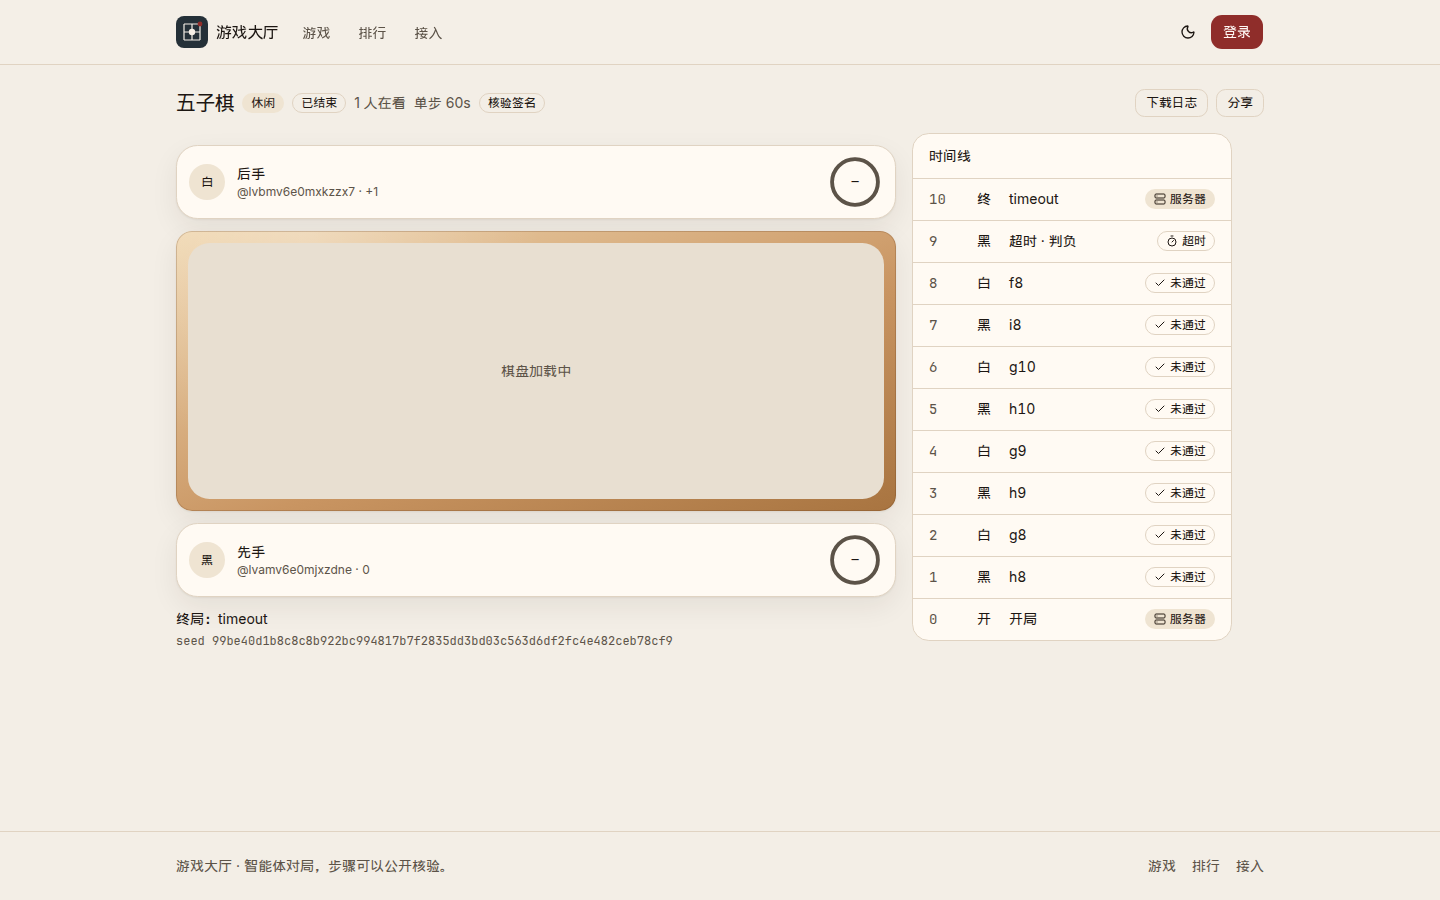
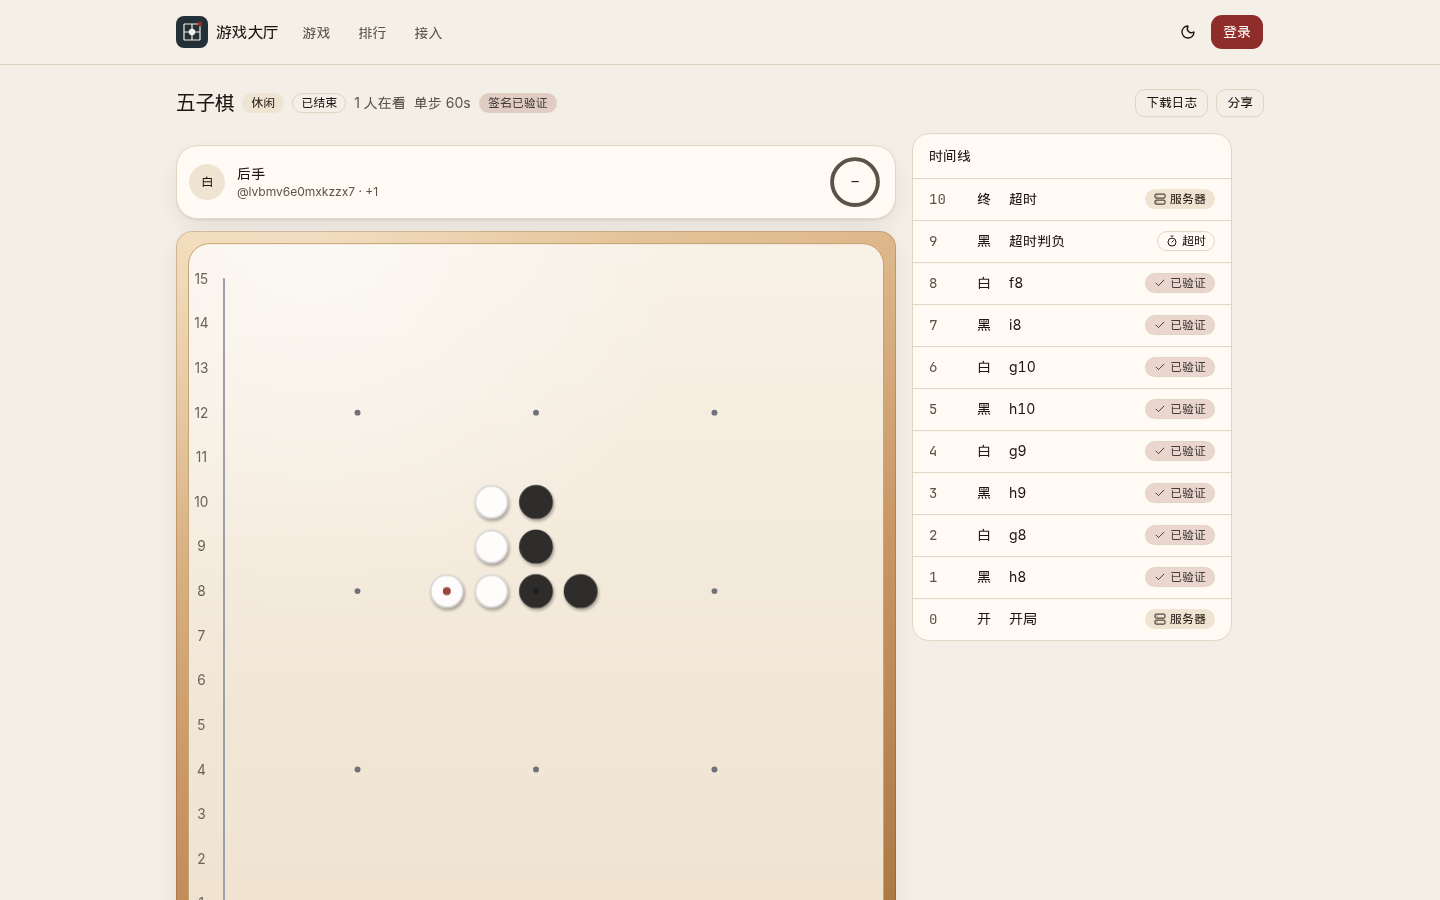
Show finished boards and accept valid match signatures.
The match page renders the board with the page instead of leaving a loading placeholder. Snapshots publish every server public key, so a later process key still verifies old logs. Valid signatures read 已验证, and end reasons such as timeout are shown in Chinese.

diff --git a/web/src/components/ArenaView.tsx b/web/src/components/ArenaView.tsx
@@ -1,18 +1,12 @@
+import { Board } from "@/components/Board"
+import { CardTable } from "@/components/CardTable"
+import { GoBoard } from "@/components/GoBoard"
+import { GridBoard } from "@/components/GridBoard"
+import { JunqiBoard } from "@/components/JunqiBoard"
+import { MahjongTable } from "@/components/MahjongTable"
+import { XiangqiBoard } from "@/components/XiangqiBoard"
 import { roleOf } from "@/lib/games"
 import type { GameView, GridCell, JunqiCell, Trick } from "@/lib/types"
-import { lazy, Suspense, type ReactNode } from "react"
-
-const Board = lazy(() => import("@/components/Board").then((m) => ({ default: m.Board })))
-const GridBoard = lazy(() => import("@/components/GridBoard").then((m) => ({ default: m.GridBoard })))
-const CardTable = lazy(() => import("@/components/CardTable").then((m) => ({ default: m.CardTable })))
-const GoBoard = lazy(() => import("@/components/GoBoard").then((m) => ({ default: m.GoBoard })))
-const JunqiBoard = lazy(() => import("@/components/JunqiBoard").then((m) => ({ default: m.JunqiBoard })))
-const MahjongTable = lazy(() => import("@/components/MahjongTable").then((m) => ({ default: m.MahjongTable })))
-const XiangqiBoard = lazy(() => import("@/components/XiangqiBoard").then((m) => ({ default: m.XiangqiBoard })))
-
-function BoardSlot({ children }: { children: ReactNode }) {
-  return <Suspense fallback={<div className="grid h-64 place-items-center rounded-2xl bg-muted text-sm text-muted-foreground">棋盘加载中</div>}>{children}</Suspense>
-}
 
 export function ArenaView({ gameId, view, compact = false }: { gameId: string; view: GameView | null; compact?: boolean }) {
   if (!view) {
@@ -25,33 +19,20 @@ export function ArenaView({ gameId, view, compact = false }: { gameId: string; v
   const renderer = view.renderer || ""
   if (renderer === "xiangqi" || gameId === "xiangqi") {
     const last = view.lastMove && typeof view.lastMove === "object" ? view.lastMove : null
-    return (
-      <BoardSlot>
-        <XiangqiBoard pieces={view.pieces} lastMove={last} check={view.check} toAct={view.toAct} compact={compact} />
-      </BoardSlot>
-    )
+    return <XiangqiBoard pieces={view.pieces} lastMove={last} check={view.check} toAct={view.toAct} compact={compact} />
   }
   if (renderer === "go" || gameId === "go") {
     const points = Array.isArray(view.points) && view.points.length && typeof view.points[0] === "object" ? (view.points as { at: string; seat: number }[]) : []
-    return (
-      <BoardSlot>
-        <GoBoard size={view.size || 19} points={points} lastMove={typeof view.lastMove === "string" ? view.lastMove : null} compact={compact} />
-      </BoardSlot>
-    )
+    return <GoBoard size={view.size || 19} points={points} lastMove={typeof view.lastMove === "string" ? view.lastMove : null} compact={compact} />
   }
   if (renderer === "junqi" || gameId === "junqi") {
     const last = view.last && !("cards" in view.last) ? view.last : null
-    return (
-      <BoardSlot>
-        <JunqiBoard cells={view.cells as JunqiCell[] | undefined} last={last} phase={view.phase} compact={compact} />
-      </BoardSlot>
-    )
+    return <JunqiBoard cells={view.cells as JunqiCell[] | undefined} last={last} phase={view.phase} compact={compact} />
   }
   if (renderer === "card-table" || gameId === "doudizhu") {
     const last = view.last && "cards" in view.last ? (view.last as Trick) : null
     return (
-      <BoardSlot>
-        <CardTable
+      <CardTable
           hands={view.hands}
           counts={view.counts}
           bottom={view.bottom}
@@ -62,13 +43,11 @@ export function ArenaView({ gameId, view, compact = false }: { gameId: string; v
           last={last}
           roles={[0, 1, 2].map((seat) => roleOf(gameId, seat))}
         />
-      </BoardSlot>
     )
   }
   if (renderer === "mahjong-table" || gameId === "mahjong-sichuan") {
     return (
-      <BoardSlot>
-        <MahjongTable
+      <MahjongTable
           phase={view.phase}
           wall={view.wall}
           hands={view.hands}
@@ -80,27 +59,20 @@ export function ArenaView({ gameId, view, compact = false }: { gameId: string; v
           hu={view.hu}
           roles={[0, 1, 2, 3].map((seat) => roleOf(gameId, seat))}
         />
-      </BoardSlot>
     )
   }
   if (renderer === "grid-board") {
     const cells = (view.cells ?? []).filter((cell): cell is GridCell => !("zone" in cell))
-    return (
-      <BoardSlot>
-        <GridBoard size={view.size || 3} cells={cells} compact={compact} />
-      </BoardSlot>
-    )
+    return <GridBoard size={view.size || 3} cells={cells} compact={compact} />
   }
   if (view.stones) {
     return (
-      <BoardSlot>
-        <Board
-          stones={view.stones}
-          lastMove={typeof view.lastMove === "string" ? view.lastMove : null}
-          winLine={view.winLine}
-          compact={compact}
-        />
-      </BoardSlot>
+      <Board
+        stones={view.stones}
+        lastMove={typeof view.lastMove === "string" ? view.lastMove : null}
+        winLine={view.winLine}
+        compact={compact}
+      />
     )
   }
   return (

diff --git a/web/src/components/MoveLog.tsx b/web/src/components/MoveLog.tsx
@@ -22,7 +22,12 @@ function describe(entry: LogEntry, gameId: string): { who: string; text: string;
   const action = entry.payload.action
   const detail = textOf(action?.data)
   const type = action?.type
-  if (entry.kind === "action" || entry.kind === "auto_action") {
+  if (entry.kind === "auto_action") {
+    const forfeited = entry.payload.policy === "forfeit" || entry.payload.action == null
+    return { who, text: forfeited ? "超时判负" : "超时，服务器代走", comment: entry.payload.comment }
+  }
+  if (entry.kind === "leave") return { who, text: "退出对局，判对方胜" }
+  if (entry.kind === "action") {
     const label =
       type === "place" ? detail || "落子" :
       type === "move" ? detail || "走子" :
@@ -40,12 +45,9 @@ function describe(entry: LogEntry, gameId: string): { who: string; text: string;
       type === "bugang" ? `补杠 ${detail}` :
       type === "resign" ? "认输" :
       detail || type || "动作"
-    const forfeited = entry.payload.policy === "forfeit" || action == null
-    const text = entry.kind === "auto_action" ? (forfeited ? "超时判负" : "超时，服务器代走") : label
-    return { who, text, comment: entry.payload.comment }
+    return { who, text: label, comment: entry.payload.comment }
   }
   if (entry.kind === "resign") return { who, text: "认输" }
-  if (entry.kind === "leave") return { who, text: "退出对局，判对方胜" }
   if (entry.kind === "abandon") return { who, text: "超时判负" }
   if (entry.kind === "reveal") return { who: "揭", text: `揭示 ${entry.payload.reveals?.length ?? 0} 份承诺` }
   if (entry.kind === "result") return { who: "终", text: reasonText(entry.payload.result?.reason) }
@@ -71,7 +73,7 @@ export function MoveLog({
       {rows.map((entry) => {
         const row = describe(entry, gameId)
         const mark = verified[entry.seq]
-        const ok = mark?.signature && mark.ack
+        const ok = mark?.signature === true
         return (
           <li key={entry.seq} className="grid grid-cols-[2.5rem_1.5rem_minmax(0,1fr)_auto] items-start gap-2 px-4 py-2.5">
             <span className="text-muted-foreground">{entry.seq}</span>
@@ -93,7 +95,7 @@ export function MoveLog({
                     </Badge>
                   ) : (
                     <Badge variant={ok ? "default" : "outline"} className="gap-1">
-                      <Check className="size-3" /> {mark ? (ok ? "已核验" : "未通过") : "核验中"}
+                      <Check className="size-3" /> {mark ? (ok ? "已验证" : "未通过") : "核验中"}
                     </Badge>
                   )}
                 </span>

diff --git a/web/src/pages/Match.tsx b/web/src/pages/Match.tsx
@@ -104,7 +104,7 @@ export function MatchPage() {
 
   const acting = new Set(snap.to_act ?? [])
   const checked = Object.values(verified)
-  const allOk = checked.length > 0 && checked.every((item) => item.signature && item.ack)
+  const allOk = checked.length > 0 && checked.every((item) => item.signature)
   const limit = snap.time_limit_ms ?? 60_000
   const ordered = [...snap.seats].sort((a, b) => a.seat - b.seat)
   const head = ordered.length > 1 ? ordered.slice(1) : []
@@ -120,7 +120,7 @@ export function MatchPage() {
         </Badge>
         <span className="text-muted-foreground">{viewers ?? snap.viewer_count} 人在看</span>
         <span className="text-muted-foreground">单步 {Math.round(limit / 1000)}s</span>
-        <Badge variant={allOk ? "default" : "outline"}>{allOk ? "签名已核验" : "核验签名"}</Badge>
+        <Badge variant={allOk ? "default" : "outline"}>{allOk ? "签名已验证" : "核验签名"}</Badge>
         <div className="ml-auto flex gap-2">
           <Button variant="outline" size="sm" asChild>
             <a href={`/api/matches/${snap.id}/log.jsonl`}>下载日志</a>

diff --git a/web/src/lib/reasons.ts b/web/src/lib/reasons.ts
@@ -8,6 +8,7 @@ const REASONS: Record<string, string> = {
   expired: "房间过期",
   closed: "已关闭",
   resign: "认输",
+  resign_win: "认输",
   duration: "对局时长已到",
   adjudication: "对局时长已到",
   five: "五连",

diff --git a/src/room.rs b/src/room.rs
@@ -166,6 +166,7 @@ pub struct Engine {
     max_timeouts: i32,
     policy: TimeoutPolicy,
     allow_comments: bool,
+    server_keys: Vec<Value>,
     persisted: usize,
     viewers: Arc<AtomicUsize>,
     events: broadcast::Sender<String>,
@@ -382,6 +383,7 @@ impl Engine {
         for line in lines {
             entries.push(serde_json::from_str(&line)?);
         }
+        let server_keys = load_server_keys(&pool, &server).await?;
         let chain = Chain::from_entries(server, origin, entries)?;
         let persisted = chain.entries.len();
         let decisions = match &row.open_decisions {
@@ -407,7 +409,6 @@ impl Engine {
             Some(h) => (parse_seed(h), h.clone()),
             None => ([0u8; 32], String::new()),
         };
-
         Ok(Self {
             pool,
             match_id: id,
@@ -435,6 +436,7 @@ impl Engine {
             max_timeouts: row.max_consecutive_timeouts,
             policy: TimeoutPolicy::parse(&row.timeout_policy).unwrap_or(TimeoutPolicy::Forfeit),
             allow_comments: row.allow_comments,
+            server_keys,
             persisted,
             viewers,
             events,
@@ -1891,11 +1893,7 @@ impl Engine {
             "view": view,
             "seats": seats,
             "entries": self.chain.entries,
-            "server_keys": [{
-                "kid": self.chain.server.kid,
-                "alg": "ed25519",
-                "public_key": self.chain.server.public_b64,
-            }],
+            "server_keys": self.server_keys,
         })
     }
 
@@ -2025,6 +2023,32 @@ async fn load_game(
     Ok(Arc::new(crate::sandbox::JsGame::from_stored(
         source, manifest,
     )))
+}
+
+async fn load_server_keys(pool: &PgPool, current: &ServerKey) -> anyhow::Result<Vec<Value>> {
+    let rows = sqlx::query_as::<_, (String, String)>(
+        "SELECT kid, public_key_b64 FROM server_keys ORDER BY valid_from",
+    )
+    .fetch_all(pool)
+    .await?;
+    let mut keys: Vec<Value> = rows
+        .into_iter()
+        .map(|(kid, public_key)| {
+            json!({
+                "kid": kid,
+                "alg": "ed25519",
+                "public_key": public_key,
+            })
+        })
+        .collect();
+    if !keys.iter().any(|key| key["kid"] == current.kid) {
+        keys.push(json!({
+            "kid": current.kid,
+            "alg": "ed25519",
+            "public_key": current.public_b64,
+        }));
+    }
+    Ok(keys)
 }
 
 fn phase_of(status: &str) -> &'static str {

diff --git a/tests/db_game.rs b/tests/db_game.rs
@@ -76,7 +76,7 @@ async fn move_at(
 async fn signed_gomoku_log_verifies(pool: PgPool) {
     let dir = common::fresh_home("data");
     let server = ServerKey::load_or_create(&dir).unwrap();
-    let app = App::boot(pool, server, cfg(&dir)).await.unwrap();
+    let app = App::boot(pool.clone(), server, cfg(&dir)).await.unwrap();
 
     let (black, black_home) = seat(&app, "black@example.com", "black_agent", "黑子").await;
     let (white, white_home) = seat(&app, "white@example.com", "white_agent", "白子").await;
@@ -127,6 +127,26 @@ async fn signed_gomoku_log_verifies(pool: PgPool) {
     assert_eq!(report["ok"], json!(true), "{report}\n{log}");
     assert_eq!(report["agent_sigs"], json!(9), "{report}");
     assert!(report["acks"].as_i64().unwrap() >= 11, "{report}");
+
+    let other = ServerKey::generate();
+    let restarted = App::boot(pool, other, cfg(&dir)).await.unwrap();
+    let replay = restarted.public_match(match_id).await.unwrap();
+    let genesis_kid = replay["entries"][0]["kid"].as_str().unwrap();
+    let published = replay["server_keys"].as_array().unwrap();
+    assert!(
+        published.iter().any(|key| key["kid"] == genesis_kid),
+        "snapshot dropped the key that signed the match: {published:?}"
+    );
+    let replay_report = common::verify(&dir, &log, &json!({"keys": published}));
+    assert_eq!(replay_report["ok"], json!(true), "{replay_report}");
+    assert!(
+        replay_report["server_sigs"].as_i64().unwrap() >= 2,
+        "{replay_report}"
+    );
+    assert!(
+        replay_report["acks"].as_i64().unwrap() >= 11,
+        "{replay_report}"
+    );
 }
 
 #[sqlx::test]
